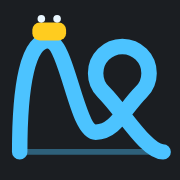
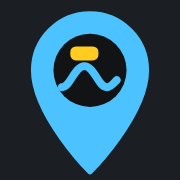
New mark: the Solid pin
Carter, 2026-09-24, from two rounds of sketches: 'it shows like this is the
hub, this is where stuff is'. A filled sky-blue map pin with a dark window
in its head, a small hill and the yellow car inside. It replaces the
lift-hill-and-loop track in mark.svg, favicon.svg, favicon-small.svg (16px:
no hill, bigger car) and logo.svg; render-icons.mjs draws the pin and
re-rendered favicon-16/32, apple-touch-icon and the OG card's tile. Icon
links move to ?v=20260924b and the OG image to ?v=4.

Claude-Session: https://claude.ai/code/session_01YFuTucLXy3ZmxaagYzrSW7

diff --git a/profile.html b/profile.html
@@ -8,13 +8,13 @@
 <meta name="description" content="Interactive roller coaster count statistics.">
 <link rel="stylesheet" href="/style.css?v=20260805b">
 <script>/* theme: set before paint so light mode never flashes dark (see initTheme in app.js) */try{if(localStorage.getItem("ch_theme")==="light")document.documentElement.setAttribute("data-theme","light")}catch(e){}</script>
-<link rel="icon" href="/favicon.svg?v=20260924" type="image/svg+xml">
-<link rel="icon" href="/favicon-32.png?v=20260924" sizes="32x32" type="image/png">
-<link rel="icon" href="/favicon-16.png?v=20260924" sizes="16x16" type="image/png">
-<link rel="apple-touch-icon" href="/apple-touch-icon.png?v=20260924">
+<link rel="icon" href="/favicon.svg?v=20260924b" type="image/svg+xml">
+<link rel="icon" href="/favicon-32.png?v=20260924b" sizes="32x32" type="image/png">
+<link rel="icon" href="/favicon-16.png?v=20260924b" sizes="16x16" type="image/png">
+<link rel="apple-touch-icon" href="/apple-touch-icon.png?v=20260924b">
 <meta property="og:title" content="Coaster Hub">
 <meta property="og:description" content="Track your coaster count, rank your credits and log your rides — every park and every coaster you’ve been on, in one place.">
-<meta property="og:image" content="https://coasterhub.org/og-image.png?v=3">
+<meta property="og:image" content="https://coasterhub.org/og-image.png?v=4">
 <meta property="og:type" content="website">
 <meta name="twitter:card" content="summary_large_image">
 <link rel="stylesheet" href="https://cdnjs.cloudflare.com/ajax/libs/leaflet/1.9.4/leaflet.min.css">
@@ -146,7 +146,7 @@
 <body>
 <header class="nav"><div class="container nav-inner">
   <a class="brand" href="/">
-    <img src="/mark.svg?v=20260924" alt="" class="brand-mark" width="40" height="40">
+    <img src="/mark.svg?v=20260924b" alt="" class="brand-mark" width="40" height="40">
     <span class="brand-text">Coaster <b>Hub</b></span>
   </a>
   <nav class="links">

diff --git a/index.html b/index.html
@@ -8,13 +8,13 @@
 <meta name="description" content="Keep track of your roller coaster count — every credit, every re-ride, every park — and see it as maps, records and charts.">
 <link rel="stylesheet" href="/style.css?v=20260805b">
 <script>/* theme: set before paint so light mode never flashes dark (see initTheme in app.js) */try{if(localStorage.getItem("ch_theme")==="light")document.documentElement.setAttribute("data-theme","light")}catch(e){}</script>
-<link rel="icon" href="/favicon.svg?v=20260924" type="image/svg+xml">
-<link rel="icon" href="/favicon-32.png?v=20260924" sizes="32x32" type="image/png">
-<link rel="icon" href="/favicon-16.png?v=20260924" sizes="16x16" type="image/png">
-<link rel="apple-touch-icon" href="/apple-touch-icon.png?v=20260924">
+<link rel="icon" href="/favicon.svg?v=20260924b" type="image/svg+xml">
+<link rel="icon" href="/favicon-32.png?v=20260924b" sizes="32x32" type="image/png">
+<link rel="icon" href="/favicon-16.png?v=20260924b" sizes="16x16" type="image/png">
+<link rel="apple-touch-icon" href="/apple-touch-icon.png?v=20260924b">
 <meta property="og:title" content="Coaster Hub">
 <meta property="og:description" content="Track your coaster count, rank your credits and log your rides — every park and every coaster you’ve been on, in one place.">
-<meta property="og:image" content="https://coasterhub.org/og-image.png?v=3">
+<meta property="og:image" content="https://coasterhub.org/og-image.png?v=4">
 <meta property="og:type" content="website">
 <meta name="twitter:card" content="summary_large_image">
 <style>
@@ -45,7 +45,7 @@
 <body>
 <header class="nav"><div class="container nav-inner">
   <a class="brand" href="/">
-    <img src="/mark.svg?v=20260924" alt="" class="brand-mark" width="40" height="40">
+    <img src="/mark.svg?v=20260924b" alt="" class="brand-mark" width="40" height="40">
     <span class="brand-text">Coaster <b>Hub</b></span>
   </a>
   <nav class="links">

diff --git a/rankings-all.html b/rankings-all.html
@@ -8,13 +8,13 @@
 <meta name="description" content="Every coaster more than one rider has ranked, most agreed-on first.">
 <link rel="stylesheet" href="/style.css?v=20260805b">
 <script>/* theme: set before paint so light mode never flashes dark (see initTheme in app.js) */try{if(localStorage.getItem("ch_theme")==="light")document.documentElement.setAttribute("data-theme","light")}catch(e){}</script>
-<link rel="icon" href="/favicon.svg?v=20260924" type="image/svg+xml">
-<link rel="icon" href="/favicon-32.png?v=20260924" sizes="32x32" type="image/png">
-<link rel="icon" href="/favicon-16.png?v=20260924" sizes="16x16" type="image/png">
-<link rel="apple-touch-icon" href="/apple-touch-icon.png?v=20260924">
+<link rel="icon" href="/favicon.svg?v=20260924b" type="image/svg+xml">
+<link rel="icon" href="/favicon-32.png?v=20260924b" sizes="32x32" type="image/png">
+<link rel="icon" href="/favicon-16.png?v=20260924b" sizes="16x16" type="image/png">
+<link rel="apple-touch-icon" href="/apple-touch-icon.png?v=20260924b">
 <meta property="og:title" content="Global rankings — Coaster Hub">
 <meta property="og:description" content="Every coaster more than one rider has ranked, most agreed-on first.">
-<meta property="og:image" content="https://coasterhub.org/og-image.png?v=3">
+<meta property="og:image" content="https://coasterhub.org/og-image.png?v=4">
 <meta property="og:type" content="website">
 <meta name="twitter:card" content="summary_large_image">
 <style>
@@ -82,7 +82,7 @@
 <body>
 <header class="nav"><div class="container nav-inner">
   <a class="brand" href="/">
-    <img src="/mark.svg?v=20260924" alt="" class="brand-mark" width="40" height="40">
+    <img src="/mark.svg?v=20260924b" alt="" class="brand-mark" width="40" height="40">
     <span class="brand-text">Coaster <b>Hub</b></span>
   </a>
   <nav class="links">

diff --git a/changes.html b/changes.html
@@ -8,12 +8,12 @@
 <meta name="description" content="What everyone has been adding, logging and fixing on Coaster Hub.">
 <link rel="stylesheet" href="/style.css?v=20260805b">
 <script>/* theme: set before paint so light mode never flashes dark (see initTheme in app.js) */try{if(localStorage.getItem("ch_theme")==="light")document.documentElement.setAttribute("data-theme","light")}catch(e){}</script>
-<link rel="icon" href="/favicon.svg?v=20260924" type="image/svg+xml">
-<link rel="icon" href="/favicon-32.png?v=20260924" sizes="32x32" type="image/png">
-<link rel="icon" href="/favicon-16.png?v=20260924" sizes="16x16" type="image/png">
-<link rel="apple-touch-icon" href="/apple-touch-icon.png?v=20260924">
+<link rel="icon" href="/favicon.svg?v=20260924b" type="image/svg+xml">
+<link rel="icon" href="/favicon-32.png?v=20260924b" sizes="32x32" type="image/png">
+<link rel="icon" href="/favicon-16.png?v=20260924b" sizes="16x16" type="image/png">
+<link rel="apple-touch-icon" href="/apple-touch-icon.png?v=20260924b">
 <meta property="og:title" content="Coaster Hub — Recent changes">
-<meta property="og:image" content="https://coasterhub.org/og-image.png?v=3">
+<meta property="og:image" content="https://coasterhub.org/og-image.png?v=4">
 <style>
   .seg{display:inline-flex;border:1px solid var(--line);border-radius:10px;overflow:hidden;margin-bottom:18px}
   .seg button{background:transparent;border:0;color:var(--muted);padding:10px 16px;cursor:pointer;
@@ -28,7 +28,7 @@
 <body>
 <header class="nav"><div class="container nav-inner">
   <a class="brand" href="/">
-    <img src="/mark.svg?v=20260924" alt="" class="brand-mark" width="40" height="40">
+    <img src="/mark.svg?v=20260924b" alt="" class="brand-mark" width="40" height="40">
     <span class="brand-text">Coaster <b>Hub</b></span>
   </a>
   <nav class="links">

diff --git a/count.html b/count.html
@@ -8,12 +8,12 @@
 <meta name="description" content="Every ride, by day or as one flat list — Coaster Hub.">
 <link rel="stylesheet" href="/style.css?v=20260805b">
 <script>/* theme: set before paint so light mode never flashes dark (see initTheme in app.js) */try{if(localStorage.getItem("ch_theme")==="light")document.documentElement.setAttribute("data-theme","light")}catch(e){}</script>
-<link rel="icon" href="/favicon.svg?v=20260924" type="image/svg+xml">
-<link rel="icon" href="/favicon-32.png?v=20260924" sizes="32x32" type="image/png">
-<link rel="icon" href="/favicon-16.png?v=20260924" sizes="16x16" type="image/png">
-<link rel="apple-touch-icon" href="/apple-touch-icon.png?v=20260924">
+<link rel="icon" href="/favicon.svg?v=20260924b" type="image/svg+xml">
+<link rel="icon" href="/favicon-32.png?v=20260924b" sizes="32x32" type="image/png">
+<link rel="icon" href="/favicon-16.png?v=20260924b" sizes="16x16" type="image/png">
+<link rel="apple-touch-icon" href="/apple-touch-icon.png?v=20260924b">
 <meta property="og:title" content="Coaster Hub — Count">
-<meta property="og:image" content="https://coasterhub.org/og-image.png?v=3">
+<meta property="og:image" content="https://coasterhub.org/og-image.png?v=4">
 <style>
   .controls{display:flex;flex-wrap:wrap;gap:10px;margin:0 0 16px}
   .controls input,.controls select{background:var(--panel);border:1px solid var(--line);color:var(--fg);padding:10px 12px;border-radius:10px;font-size:.9rem}
@@ -328,7 +328,7 @@
 <body>
 <header class="nav"><div class="container nav-inner">
   <a class="brand" href="/">
-    <img src="/mark.svg?v=20260924" alt="" class="brand-mark" width="40" height="40">
+    <img src="/mark.svg?v=20260924b" alt="" class="brand-mark" width="40" height="40">
     <span class="brand-text">Coaster <b>Hub</b></span>
   </a>
   <nav class="links">

diff --git a/rankings.html b/rankings.html
@@ -8,12 +8,12 @@
 <meta name="description" content="Rank your favorite coasters, and see how everyone's lists combine — Coaster Hub.">
 <link rel="stylesheet" href="/style.css?v=20260805b">
 <script>/* theme: set before paint so light mode never flashes dark (see initTheme in app.js) */try{if(localStorage.getItem("ch_theme")==="light")document.documentElement.setAttribute("data-theme","light")}catch(e){}</script>
-<link rel="icon" href="/favicon.svg?v=20260924" type="image/svg+xml">
-<link rel="icon" href="/favicon-32.png?v=20260924" sizes="32x32" type="image/png">
-<link rel="icon" href="/favicon-16.png?v=20260924" sizes="16x16" type="image/png">
-<link rel="apple-touch-icon" href="/apple-touch-icon.png?v=20260924">
+<link rel="icon" href="/favicon.svg?v=20260924b" type="image/svg+xml">
+<link rel="icon" href="/favicon-32.png?v=20260924b" sizes="32x32" type="image/png">
+<link rel="icon" href="/favicon-16.png?v=20260924b" sizes="16x16" type="image/png">
+<link rel="apple-touch-icon" href="/apple-touch-icon.png?v=20260924b">
 <meta property="og:title" content="Coaster Hub — Rankings">
-<meta property="og:image" content="https://coasterhub.org/og-image.png?v=3">
+<meta property="og:image" content="https://coasterhub.org/og-image.png?v=4">
 <style>
   .bar{display:flex;flex-wrap:wrap;gap:10px;align-items:center;margin:0 0 16px}
   .seg{display:inline-flex;border:1px solid var(--line);border-radius:10px;overflow:hidden}
@@ -368,7 +368,7 @@
 <body>
 <header class="nav"><div class="container nav-inner">
   <a class="brand" href="/">
-    <img src="/mark.svg?v=20260924" alt="" class="brand-mark" width="40" height="40">
+    <img src="/mark.svg?v=20260924b" alt="" class="brand-mark" width="40" height="40">
     <span class="brand-text">Coaster <b>Hub</b></span>
   </a>
   <nav class="links">

diff --git a/manufacturer.html b/manufacturer.html
@@ -11,12 +11,12 @@
 <meta name="description" content="Every coaster maker on the site, their models, and how many of each — Coaster Hub.">
 <link rel="stylesheet" href="/style.css?v=20260805b">
 <script>/* theme: set before paint so light mode never flashes dark (see initTheme in app.js) */try{if(localStorage.getItem("ch_theme")==="light")document.documentElement.setAttribute("data-theme","light")}catch(e){}</script>
-<link rel="icon" href="/favicon.svg?v=20260924" type="image/svg+xml">
-<link rel="icon" href="/favicon-32.png?v=20260924" sizes="32x32" type="image/png">
-<link rel="icon" href="/favicon-16.png?v=20260924" sizes="16x16" type="image/png">
-<link rel="apple-touch-icon" href="/apple-touch-icon.png?v=20260924">
+<link rel="icon" href="/favicon.svg?v=20260924b" type="image/svg+xml">
+<link rel="icon" href="/favicon-32.png?v=20260924b" sizes="32x32" type="image/png">
+<link rel="icon" href="/favicon-16.png?v=20260924b" sizes="16x16" type="image/png">
+<link rel="apple-touch-icon" href="/apple-touch-icon.png?v=20260924b">
 <meta property="og:title" content="Coaster Hub — Manufacturers">
-<meta property="og:image" content="https://coasterhub.org/og-image.png?v=3">
+<meta property="og:image" content="https://coasterhub.org/og-image.png?v=4">
 <style>
   /* One maker: its models, biggest first, each opening to its coasters. The
      index (/manufacturers) is every maker as one list. Carter, 2026-09-24:
@@ -70,7 +70,7 @@
 <body>
 <header class="nav"><div class="container nav-inner">
   <a class="brand" href="/">
-    <img src="/mark.svg?v=20260924" alt="" class="brand-mark" width="40" height="40">
+    <img src="/mark.svg?v=20260924b" alt="" class="brand-mark" width="40" height="40">
     <span class="brand-text">Coaster <b>Hub</b></span>
   </a>
   <nav class="links">

diff --git a/categories.html b/categories.html
@@ -8,12 +8,12 @@
 <meta name="description" content="Rank the same ride at five parks once. Choose which categories you use, and write your own.">
 <link rel="stylesheet" href="/style.css?v=20260805b">
 <script>/* theme: set before paint so light mode never flashes dark (see initTheme in app.js) */try{if(localStorage.getItem("ch_theme")==="light")document.documentElement.setAttribute("data-theme","light")}catch(e){}</script>
-<link rel="icon" href="/favicon.svg?v=20260924" type="image/svg+xml">
-<link rel="icon" href="/favicon-32.png?v=20260924" sizes="32x32" type="image/png">
-<link rel="icon" href="/favicon-16.png?v=20260924" sizes="16x16" type="image/png">
-<link rel="apple-touch-icon" href="/apple-touch-icon.png?v=20260924">
+<link rel="icon" href="/favicon.svg?v=20260924b" type="image/svg+xml">
+<link rel="icon" href="/favicon-32.png?v=20260924b" sizes="32x32" type="image/png">
+<link rel="icon" href="/favicon-16.png?v=20260924b" sizes="16x16" type="image/png">
+<link rel="apple-touch-icon" href="/apple-touch-icon.png?v=20260924b">
 <meta property="og:title" content="Coaster Hub — Categories">
-<meta property="og:image" content="https://coasterhub.org/og-image.png?v=3">
+<meta property="og:image" content="https://coasterhub.org/og-image.png?v=4">
 <style>
   /* The master switch is a real checkbox next to the word, because it is the
      one control on this page that has to be unmistakable. */
@@ -85,7 +85,7 @@
 
 <header class="nav"><div class="container nav-inner">
   <a class="brand" href="/">
-    <img src="/mark.svg?v=20260924" alt="" class="brand-mark" width="40" height="40">
+    <img src="/mark.svg?v=20260924b" alt="" class="brand-mark" width="40" height="40">
     <span class="brand-text">Coaster <b>Hub</b></span>
   </a>
   <nav class="links">

diff --git a/park.html b/park.html
@@ -11,12 +11,12 @@
 <meta name="description" content="Every coaster at one park, and who has ridden them — Coaster Hub.">
 <link rel="stylesheet" href="/style.css?v=20260805b">
 <script>/* theme: set before paint so light mode never flashes dark (see initTheme in app.js) */try{if(localStorage.getItem("ch_theme")==="light")document.documentElement.setAttribute("data-theme","light")}catch(e){}</script>
-<link rel="icon" href="/favicon.svg?v=20260924" type="image/svg+xml">
-<link rel="icon" href="/favicon-32.png?v=20260924" sizes="32x32" type="image/png">
-<link rel="icon" href="/favicon-16.png?v=20260924" sizes="16x16" type="image/png">
-<link rel="apple-touch-icon" href="/apple-touch-icon.png?v=20260924">
+<link rel="icon" href="/favicon.svg?v=20260924b" type="image/svg+xml">
+<link rel="icon" href="/favicon-32.png?v=20260924b" sizes="32x32" type="image/png">
+<link rel="icon" href="/favicon-16.png?v=20260924b" sizes="16x16" type="image/png">
+<link rel="apple-touch-icon" href="/apple-touch-icon.png?v=20260924b">
 <meta property="og:title" content="Coaster Hub — Park">
-<meta property="og:image" content="https://coasterhub.org/og-image.png?v=3">
+<meta property="og:image" content="https://coasterhub.org/og-image.png?v=4">
 <style>
   /* Two facts about the park, above its list: operating and defunct. There
      were four — Coasters and Tallest as well — until Carter, 2026-09-24: "remove
@@ -93,7 +93,7 @@
 <body>
 <header class="nav"><div class="container nav-inner">
   <a class="brand" href="/">
-    <img src="/mark.svg?v=20260924" alt="" class="brand-mark" width="40" height="40">
+    <img src="/mark.svg?v=20260924b" alt="" class="brand-mark" width="40" height="40">
     <span class="brand-text">Coaster <b>Hub</b></span>
   </a>
   <nav class="links">

diff --git a/add.html b/add.html
@@ -8,12 +8,12 @@
 <meta name="description" content="Add a park or a coaster to the Coaster Hub database.">
 <link rel="stylesheet" href="/style.css?v=20260805b">
 <script>/* theme: set before paint so light mode never flashes dark (see initTheme in app.js) */try{if(localStorage.getItem("ch_theme")==="light")document.documentElement.setAttribute("data-theme","light")}catch(e){}</script>
-<link rel="icon" href="/favicon.svg?v=20260924" type="image/svg+xml">
-<link rel="icon" href="/favicon-32.png?v=20260924" sizes="32x32" type="image/png">
-<link rel="icon" href="/favicon-16.png?v=20260924" sizes="16x16" type="image/png">
-<link rel="apple-touch-icon" href="/apple-touch-icon.png?v=20260924">
+<link rel="icon" href="/favicon.svg?v=20260924b" type="image/svg+xml">
+<link rel="icon" href="/favicon-32.png?v=20260924b" sizes="32x32" type="image/png">
+<link rel="icon" href="/favicon-16.png?v=20260924b" sizes="16x16" type="image/png">
+<link rel="apple-touch-icon" href="/apple-touch-icon.png?v=20260924b">
 <meta property="og:title" content="Coaster Hub — Add new">
-<meta property="og:image" content="https://coasterhub.org/og-image.png?v=3">
+<meta property="og:image" content="https://coasterhub.org/og-image.png?v=4">
 <style>
   .panel{background:var(--panel);border:1px solid var(--line);border-radius:16px;padding:20px 22px;margin:0 0 18px}
   .panel h2{font-size:1.05rem;margin:0 0 4px}
@@ -93,7 +93,7 @@
 <body>
 <header class="nav"><div class="container nav-inner">
   <a class="brand" href="/">
-    <img src="/mark.svg?v=20260924" alt="" class="brand-mark" width="40" height="40">
+    <img src="/mark.svg?v=20260924b" alt="" class="brand-mark" width="40" height="40">
     <span class="brand-text">Coaster <b>Hub</b></span>
   </a>
   <nav class="links">

diff --git a/account.html b/account.html
@@ -8,12 +8,12 @@
 <meta name="description" content="Sign in to Coaster Hub, or start your own coaster count.">
 <link rel="stylesheet" href="/style.css?v=20260805b">
 <script>/* theme: set before paint so light mode never flashes dark (see initTheme in app.js) */try{if(localStorage.getItem("ch_theme")==="light")document.documentElement.setAttribute("data-theme","light")}catch(e){}</script>
-<link rel="icon" href="/favicon.svg?v=20260924" type="image/svg+xml">
-<link rel="icon" href="/favicon-32.png?v=20260924" sizes="32x32" type="image/png">
-<link rel="icon" href="/favicon-16.png?v=20260924" sizes="16x16" type="image/png">
-<link rel="apple-touch-icon" href="/apple-touch-icon.png?v=20260924">
+<link rel="icon" href="/favicon.svg?v=20260924b" type="image/svg+xml">
+<link rel="icon" href="/favicon-32.png?v=20260924b" sizes="32x32" type="image/png">
+<link rel="icon" href="/favicon-16.png?v=20260924b" sizes="16x16" type="image/png">
+<link rel="apple-touch-icon" href="/apple-touch-icon.png?v=20260924b">
 <meta property="og:title" content="Coaster Hub — Account">
-<meta property="og:image" content="https://coasterhub.org/og-image.png?v=3">
+<meta property="og:image" content="https://coasterhub.org/og-image.png?v=4">
 <style>
   /* Same panel + form vocabulary as /log's gate, so signing in looks like the
      rest of the site rather than like a bolted-on auth page. */
@@ -59,7 +59,7 @@
 <body>
 <header class="nav"><div class="container nav-inner">
   <a class="brand" href="/">
-    <img src="/mark.svg?v=20260924" alt="" class="brand-mark" width="40" height="40">
+    <img src="/mark.svg?v=20260924b" alt="" class="brand-mark" width="40" height="40">
     <span class="brand-text">Coaster <b>Hub</b></span>
   </a>
   <nav class="links">

diff --git a/coaster.html b/coaster.html
@@ -11,12 +11,12 @@
 <meta name="description" content="One coaster: its specs, its park, and who has ridden it — Coaster Hub.">
 <link rel="stylesheet" href="/style.css?v=20260805b">
 <script>/* theme: set before paint so light mode never flashes dark (see initTheme in app.js) */try{if(localStorage.getItem("ch_theme")==="light")document.documentElement.setAttribute("data-theme","light")}catch(e){}</script>
-<link rel="icon" href="/favicon.svg?v=20260924" type="image/svg+xml">
-<link rel="icon" href="/favicon-32.png?v=20260924" sizes="32x32" type="image/png">
-<link rel="icon" href="/favicon-16.png?v=20260924" sizes="16x16" type="image/png">
-<link rel="apple-touch-icon" href="/apple-touch-icon.png?v=20260924">
+<link rel="icon" href="/favicon.svg?v=20260924b" type="image/svg+xml">
+<link rel="icon" href="/favicon-32.png?v=20260924b" sizes="32x32" type="image/png">
+<link rel="icon" href="/favicon-16.png?v=20260924b" sizes="16x16" type="image/png">
+<link rel="apple-touch-icon" href="/apple-touch-icon.png?v=20260924b">
 <meta property="og:title" content="Coaster Hub — Coaster">
-<meta property="og:image" content="https://coasterhub.org/og-image.png?v=3">
+<meta property="og:image" content="https://coasterhub.org/og-image.png?v=4">
 <style>
   .crumb{margin:0 0 14px;font-size:.86rem}
   .crumb a{color:var(--muted);text-decoration:none}
@@ -78,7 +78,7 @@
 <body>
 <header class="nav"><div class="container nav-inner">
   <a class="brand" href="/">
-    <img src="/mark.svg?v=20260924" alt="" class="brand-mark" width="40" height="40">
+    <img src="/mark.svg?v=20260924b" alt="" class="brand-mark" width="40" height="40">
     <span class="brand-text">Coaster <b>Hub</b></span>
   </a>
   <nav class="links">
